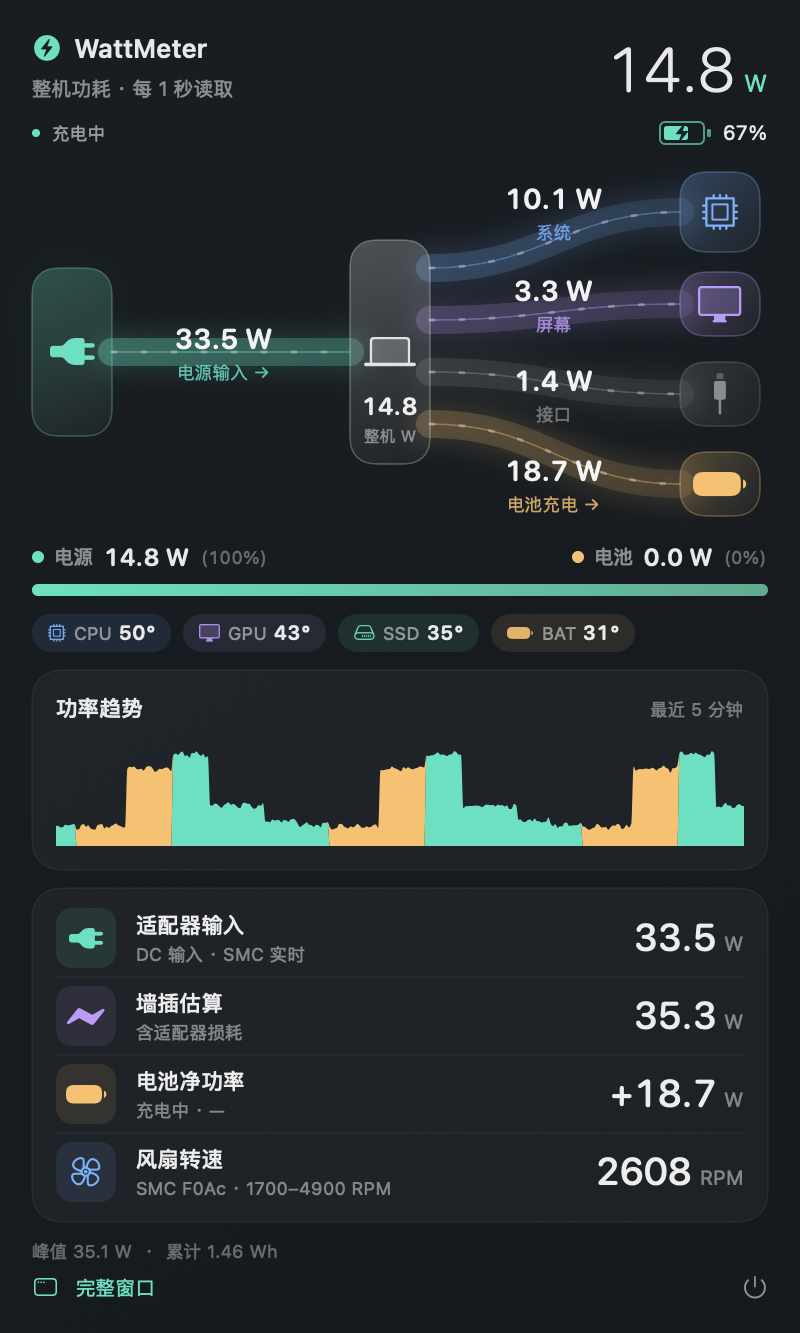
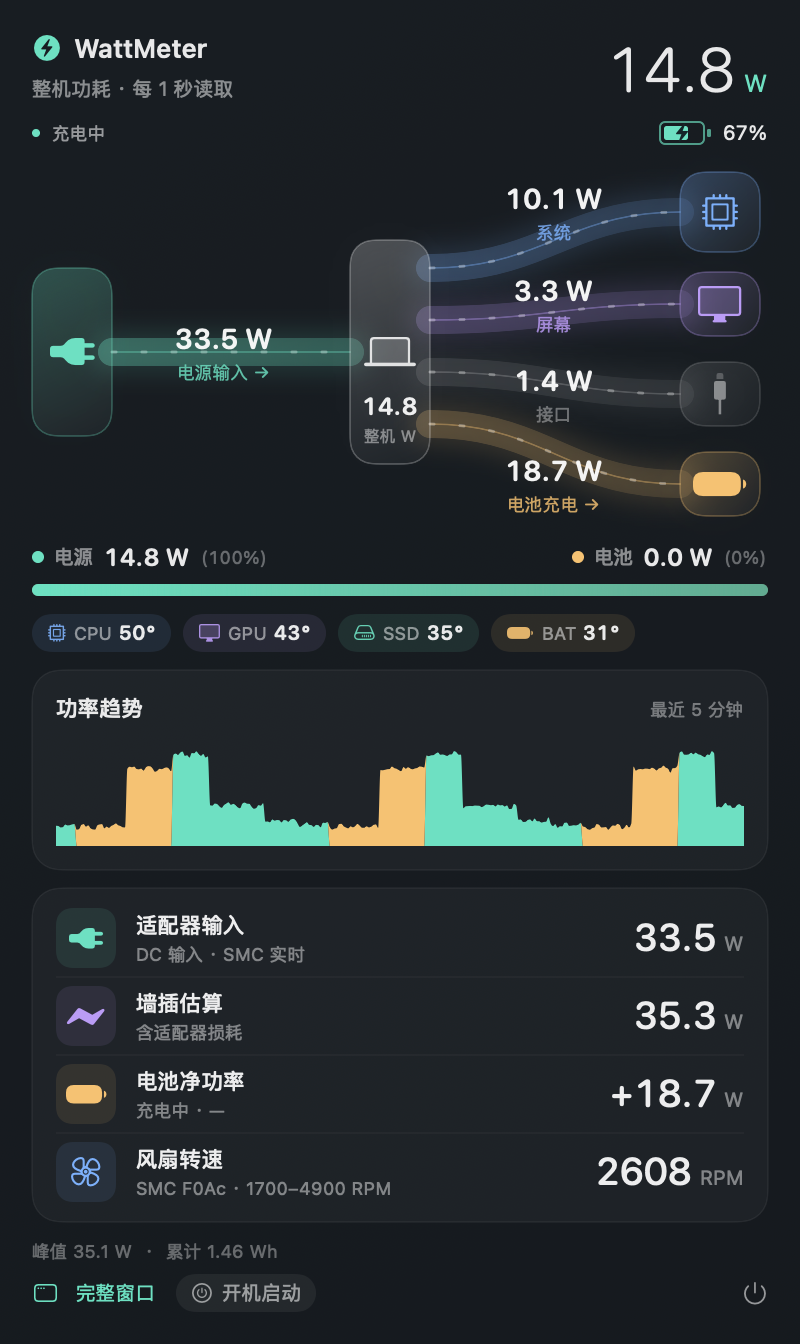
feat: optional launch at login via SMAppService
- LoginItemController wraps SMAppService.mainApp (register/unregister/status,
  approval handling, System Settings shortcut)
- toggle in the panel footer and in the right-click menu
- CLI: --login-item status|enable|disable|open-settings for verification
- panel height adjusted to 672 pt; EN/ZH README updated

diff --git a/Sources/WattMeter/AppDelegate.swift b/Sources/WattMeter/AppDelegate.swift
@@ -6,6 +6,7 @@ import WattMeterUI
 
 final class AppDelegate: NSObject, NSApplicationDelegate {
     private let store = PowerStore()
+    private let loginItem = LoginItemController()
     private var statusItem: NSStatusItem!
     private var popover: NSPopover!
     private var mainWindow: NSWindow?
@@ -98,9 +99,19 @@ final class AppDelegate: NSObject, NSApplicationDelegate {
         guard let button = statusItem.button else { return }
         let menu = NSMenu()
 
+        loginItem.refresh()
+
         let openItem = NSMenuItem(title: "打开主窗口", action: #selector(openMainWindow), keyEquivalent: "o")
         openItem.target = self
         menu.addItem(openItem)
+
+        let loginText = loginItem.requiresApproval
+            ? "开机自动启动（等待系统批准…）"
+            : "开机自动启动"
+        let loginMenuItem = NSMenuItem(title: loginText, action: #selector(toggleLoginItem), keyEquivalent: "")
+        loginMenuItem.target = self
+        loginMenuItem.state = loginItem.enabled ? .on : .off
+        menu.addItem(loginMenuItem)
 
         menu.addItem(.separator())
 
@@ -118,22 +129,24 @@ final class AppDelegate: NSObject, NSApplicationDelegate {
     private func setupPopover() {
         let root = DashboardView(
             store: store,
+            loginItem: loginItem,
             onOpenWindow: { [weak self] in self?.openMainWindow() },
             onQuit: { NSApp.terminate(nil) }
         )
         let controller = NSHostingController(rootView: root)
-        controller.preferredContentSize = NSSize(width: 400, height: 666)
+        controller.preferredContentSize = NSSize(width: 400, height: 672)
 
         let popover = NSPopover()
         popover.behavior = .transient
         popover.animates = true
         popover.appearance = NSAppearance(named: .darkAqua)
-        popover.contentSize = NSSize(width: 400, height: 666)
+        popover.contentSize = NSSize(width: 400, height: 672)
         popover.contentViewController = controller
         self.popover = popover
     }
 
     private func togglePopover() {
+        loginItem.refresh()
         guard let button = statusItem.button else { return }
         if popover.isShown {
             popover.performClose(nil)
@@ -174,6 +187,22 @@ final class AppDelegate: NSObject, NSApplicationDelegate {
             let report = "frame=\(window.frame) content=\(window.contentLayoutRect) screenVisible=\(screen)"
             FileHandle.standardOutput.write(Data((report + "\n").utf8))
             try? report.write(toFile: "/tmp/wattmeter-window.txt", atomically: true, encoding: .utf8)
+        }
+    }
+
+    @objc private func toggleLoginItem() {
+        // 等待系统批准时，直接带用户去「登录项」设置
+        if loginItem.requiresApproval {
+            loginItem.openSystemSettings()
+            return
+        }
+        if !loginItem.setEnabled(!loginItem.enabled) {
+            let alert = NSAlert()
+            alert.messageText = "无法修改开机自动启动"
+            alert.informativeText = loginItem.lastError ?? "未知错误。可以把 WattMeter.app 放到「应用程序」文件夹后再试。"
+            alert.alertStyle = .warning
+            alert.addButton(withTitle: "好")
+            alert.runModal()
         }
     }
 

diff --git a/Sources/WattMeterUI/LoginItem.swift b/Sources/WattMeterUI/LoginItem.swift
@@ -1,0 +1,86 @@
+import Foundation
+import ServiceManagement
+
+/// 开机自动启动（登录项）控制器。
+///
+/// 使用 macOS 13+ 的 `SMAppService.mainApp`，无需 root、无需辅助进程。
+/// 注册后系统可能要求用户在「系统设置 → 通用 → 登录项」里批准，
+/// 此时状态为 `.requiresApproval`，我们会引导用户去授权。
+public final class LoginItemController: ObservableObject {
+    @Published public private(set) var enabled: Bool = false
+    @Published public private(set) var requiresApproval: Bool = false
+    @Published public private(set) var lastError: String?
+
+    public init() {
+        refresh()
+    }
+
+    /// 重新读取系统里的真实状态（用户可能在系统设置里手动改过）
+    public func refresh() {
+        let status = SMAppService.mainApp.status
+        enabled = (status == .enabled)
+        requiresApproval = (status == .requiresApproval)
+    }
+
+    /// 当前状态的人类可读描述
+    public var statusDescription: String {
+        switch SMAppService.mainApp.status {
+        case .enabled: return "已启用"
+        case .requiresApproval: return "等待系统批准"
+        case .notRegistered: return "未启用"
+        case .notFound: return "系统未找到该应用"
+        @unknown default: return "未知"
+        }
+    }
+
+    /// 打开 / 关闭开机自启。返回是否操作成功。
+    @discardableResult
+    public func setEnabled(_ value: Bool) -> Bool {
+        lastError = nil
+        do {
+            if value {
+                try SMAppService.mainApp.register()
+            } else {
+                try SMAppService.mainApp.unregister()
+            }
+            refresh()
+            // 首次注册通常需要用户到系统设置里批准
+            if requiresApproval {
+                SMAppService.openSystemSettingsLoginItems()
+            }
+            return true
+        } catch {
+            lastError = error.localizedDescription
+            refresh()
+            return false
+        }
+    }
+
+    public func toggle() {
+        setEnabled(!enabled)
+    }
+
+    public func openSystemSettings() {
+        SMAppService.openSystemSettingsLoginItems()
+    }
+
+    /// 命令行诊断用：`--login-item status|enable|disable|open-settings`
+    public func handleCommandLine() {
+        let args = CommandLine.arguments
+        guard let index = args.firstIndex(of: "--login-item"), index + 1 < args.count else { return }
+        switch args[index + 1] {
+        case "status":
+            print("login-item: \(statusDescription) (enabled=\(enabled), requiresApproval=\(requiresApproval))")
+        case "enable":
+            print(setEnabled(true) ? "login-item: enable ok → \(statusDescription)" : "login-item: enable failed: \(lastError ?? "unknown")")
+        case "disable":
+            print(setEnabled(false) ? "login-item: disable ok → \(statusDescription)" : "login-item: disable failed: \(lastError ?? "unknown")")
+        case "open-settings":
+            openSystemSettings()
+            print("login-item: opened System Settings")
+        default:
+            print("用法: --login-item status|enable|disable|open-settings")
+        }
+        exit(0)
+    }
+}

diff --git a/Sources/WattMeterUI/DashboardView.swift b/Sources/WattMeterUI/DashboardView.swift
@@ -4,13 +4,16 @@ import WattMeterCore
 /// 菜单栏弹出面板
 public struct DashboardView: View {
     @ObservedObject private var store: PowerStore
+    @ObservedObject private var loginItem: LoginItemController
     private let onOpenWindow: () -> Void
     private let onQuit: () -> Void
 
     public init(store: PowerStore,
+                loginItem: LoginItemController = LoginItemController(),
                 onOpenWindow: @escaping () -> Void = {},
                 onQuit: @escaping () -> Void = {}) {
         self.store = store
+        self.loginItem = loginItem
         self.onOpenWindow = onOpenWindow
         self.onQuit = onQuit
     }
@@ -132,6 +135,33 @@ public struct DashboardView: View {
                 }
                 .buttonStyle(.plain)
                 .foregroundStyle(Palette.mint)
+
+                Button {
+                    if loginItem.requiresApproval {
+                        loginItem.openSystemSettings()
+                    } else {
+                        loginItem.toggle()
+                    }
+                } label: {
+                    HStack(spacing: 4) {
+                        Image(systemName: loginItem.enabled ? "checkmark.circle.fill" : "power.circle")
+                            .font(.system(size: 10))
+                        Text("开机启动").font(.system(size: 10))
+                        if loginItem.requiresApproval {
+                            Text("待批准").font(.system(size: 8)).opacity(0.7)
+                        }
+                    }
+                    .padding(.horizontal, 7)
+                    .padding(.vertical, 3)
+                    .background(
+                        Capsule().fill(loginItem.enabled
+                                       ? Palette.mint.opacity(0.18)
+                                       : Color.white.opacity(0.06))
+                    )
+                    .foregroundStyle(loginItem.enabled ? Palette.mint : Color.white.opacity(0.55))
+                }
+                .buttonStyle(.plain)
+                .help("登录时自动启动 WattMeter · \(loginItem.statusDescription)")
 
                 Spacer()
 

diff --git a/Sources/WattMeter/main.swift b/Sources/WattMeter/main.swift
@@ -1,5 +1,11 @@
 import AppKit
 import WattMeterCore
+import WattMeterUI
+
+// --login-item：命令行查看/开关登录项（便于验证与自动化）
+if CommandLine.arguments.contains("--login-item") {
+    LoginItemController().handleCommandLine()
+}
 
 // --selftest：不打开界面，运行采样器 3.5 秒后打印结果并退出。
 // 用于在无 GUI 观察条件下验证 App 的完整数据链路。

diff --git a/README.md b/README.md
@@ -6,6 +6,7 @@ A native macOS menu-bar power monitor. It shows real-time system power, how much
 
 - Swift + SwiftUI + Swift Charts, no third-party dependencies
 - **No root, no kernel extension, no network access** — read-only IOKit/SMC access
+- Optional **launch at login** (`SMAppService.mainApp`, no helper process)
 - Builds with the macOS Command Line Tools alone (Xcode not required)
 
 | Menu bar panel (charging) | Panel (battery) | Main window |
@@ -132,13 +133,14 @@ The visual language is inspired by [PowerLens](https://github.com/kinghhhin-desi
 
 | Element | Detail |
 | --- | --- |
-| Panel | 400 × 666 pt dark frosted glass (`NSVisualEffectView` with `.popover` material, behind-window, darkAqua) |
+| Panel | 400 × 672 pt dark frosted glass (`NSVisualEffectView` with `.popover` material, behind-window, darkAqua) |
 | Accents | mint `#6EE0C2` (power), amber `#F5C273` (battery), blue `#7DB0FA` (system), purple `#BA9CF5` (adapter/ports) |
 | Type | SF Rounded; 31 pt light primary readout, 19 pt medium row values, 9–10 pt captions |
 | Flow diagram | 364 × 180: source on the left, Mac in the middle, four branches on the right (system / display / ports / battery). Rounded bezier links with gradient, glow and dots flowing **from source to load**. Link width is fixed at 14 pt so the diagram does not jitter when readings change |
 | Temperatures | CPU / GPU / SSD / battery chips in the panel; a full temperature card in the main window. Values turn amber above 65 °C and red above 80 °C |
 | Charts | Stacked area of adapter vs battery, plus a total/net-battery line chart in the main window |
 | Main window | 1020 × 820 pt (scrollable if the user shrinks it): flow diagram, stacked area chart, line chart, and adapter / battery / temperature cards |
+| Launch at login | Toggle in the panel footer or the right-click menu. Uses `SMAppService.mainApp`; macOS may ask for approval in System Settings → General → Login Items |
 | Menu bar | Monospaced digits, width auto-fitted, detailed tooltip, single-instance guard |
 
 Charging, discharging, battery standby and no-battery desktops each get a different diagram layout; branches without telemetry are dimmed instead of being hidden.
@@ -167,6 +169,8 @@ Self-checks:
 ```bash
 dist/WattMeter.app/Contents/MacOS/WattMeter --selftest   # sample for 3.5 s and print
 dist/WattMeter.app/Contents/MacOS/WattMeter --diag       # verify the status item exists
+dist/WattMeter.app/Contents/MacOS/WattMeter --login-item status   # launch-at-login state
+dist/WattMeter.app/Contents/MacOS/WattMeter --login-item enable   # register (disable to undo)
 ```
 
 The DMG (created by `scripts/package-dmg.sh`) contains `WattMeter.app`, an `Applications` shortcut and a short install note: open it, drag the app to Applications, eject.

diff --git a/README.zh-CN.md b/README.zh-CN.md
@@ -6,6 +6,7 @@
 
 - Swift + SwiftUI + Swift Charts，无第三方依赖
 - **免 root、免内核扩展、无网络访问** —— 只读 IOKit / SMC
+- 可选**开机自动启动**（`SMAppService.mainApp`，不需要辅助进程）
 - 只用 macOS 自带的 Command Line Tools 即可构建（不需要 Xcode）
 
 | 菜单栏面板（充电中） | 面板（电池放电） | 主窗口 |
@@ -132,13 +133,14 @@ wattmeter/
 
 | 元素 | 说明 |
 | --- | --- |
-| 面板 | 400 × 666 pt 深色毛玻璃（`NSVisualEffectView`，`.popover` 材质、behind-window、darkAqua） |
+| 面板 | 400 × 672 pt 深色毛玻璃（`NSVisualEffectView`，`.popover` 材质、behind-window、darkAqua） |
 | 强调色 | mint `#6EE0C2`（电源）、amber `#F5C273`（电池）、blue `#7DB0FA`（系统）、purple `#BA9CF5`（适配器/接口） |
 | 字体 | SF Rounded；主读数 31 pt light，行内读数 19 pt medium，说明文字 9–10 pt |
 | 流向图 | 364 × 180：左侧供电源、中间整机、右侧四条分支（系统 / 屏幕 / 接口 / 电池）。圆角贝塞尔流线，渐变 + 辉光 + **由电源向负载流动**的光点；线宽固定 14 pt，读数跳动时不会抖动 |
 | 温度 | 面板内 CPU / GPU / SSD / 电池 温度胶囊；主窗口有完整温度卡。高于 65 °C 转琥珀色，高于 80 °C 转红色 |
 | 图表 | 电源与电池的堆叠面积图；主窗口另有整机功率 / 电池净功率折线图 |
 | 主窗口 | 1020 × 820 pt（手动缩小时可滚动）：流向图、堆叠面积图、折线图，以及适配器 / 电池 / 温度卡 |
+| 开机启动 | 面板底部或右键菜单里切换。使用 `SMAppService.mainApp`；系统可能要求在「系统设置 → 通用 → 登录项」里批准 |
 | 菜单栏 | 等宽数字、按文字宽度自适应、tooltip 带明细、单实例保护 |
 
 充电 / 放电 / 电池待机 / 无电池的台式机各有不同的流向图布局；没有遥测的分支会变淡而不是隐藏。
@@ -167,6 +169,8 @@ open dist/WattMeter.app            # 菜单栏应用，无 Dock 图标
 ```bash
 dist/WattMeter.app/Contents/MacOS/WattMeter --selftest   # 采样 3.5 秒并打印
 dist/WattMeter.app/Contents/MacOS/WattMeter --diag       # 检查状态项是否创建成功
+dist/WattMeter.app/Contents/MacOS/WattMeter --login-item status   # 查看开机自启状态
+dist/WattMeter.app/Contents/MacOS/WattMeter --login-item enable   # 开启（disable 关闭）
 ```
 
 `scripts/package-dmg.sh` 生成的 DMG 内含 `WattMeter.app`、`Applications` 快捷方式和安装说明：打开后把 App 拖进 Applications 即可。
